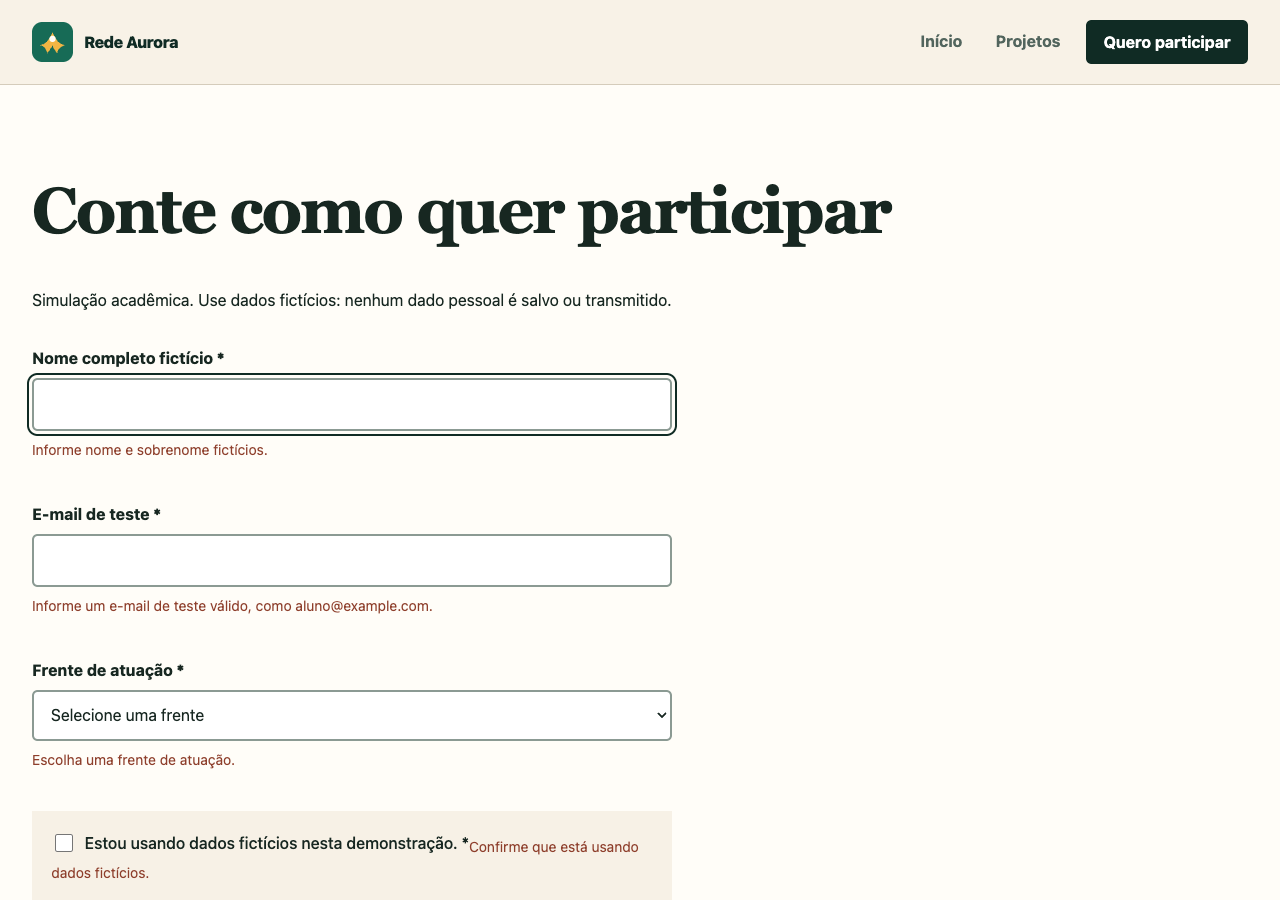
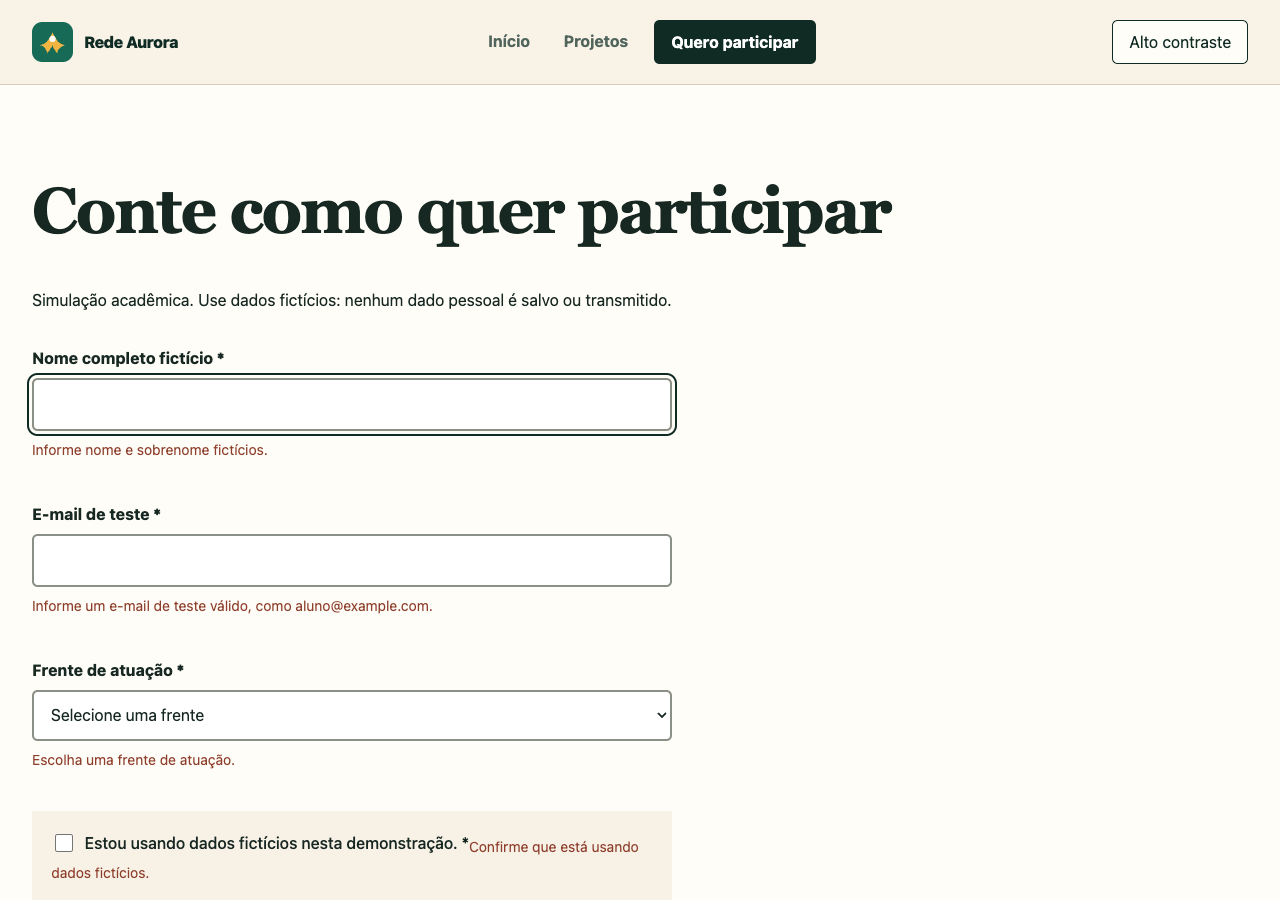
feat: adicionar alto contraste e testes de teclado

diff --git a/css/app.css b/css/app.css
@@ -1,5 +1,21 @@
 [v-cloak] { display: none; }
 .spa-menu { display: none; }
+.header-inner { flex-wrap: wrap; }
+.contrast-toggle { min-height: 44px; padding: var(--space-1) var(--space-2); border: 1px solid var(--forest-950); border-radius: var(--radius-small); color: var(--forest-950); background: var(--paper); cursor: pointer; }
+.high-contrast { color: #fff; background: #000; min-height: 100vh; color-scheme: dark; }
+.high-contrast :is(.site-header, .hero, .site-footer, .project-copy, .consent, .app-status, .badge, .feedback-dialog, input, select) { color: #fff; background: #000; border-color: #fff; }
+#app .high-contrast :is(h1, h2, p, label, strong, figcaption, span, .field-error) { color: #fff; }
+#app .high-contrast :is(a, button, .button, .nav-action) { color: #ffff00; background: #000; border-color: #ffff00; }
+.high-contrast a { text-decoration: underline; }
+.high-contrast .button { transition: none; }
+.high-contrast :is(button, input, select, .button) { border-width: 2px; border-style: solid; }
+.high-contrast :is(input, textarea)::placeholder { color: #fff; }
+.high-contrast :focus-visible { outline: 3px solid #ffff00; outline-offset: 4px; box-shadow: none; }
+.high-contrast .hero::before { display: none; }
+@media (forced-colors: active) {
+  :is(button, .button, input, select) { border: 2px solid ButtonText; }
+  :focus-visible { outline: 3px solid Highlight; box-shadow: none; }
+}
 .section > h1 { max-width: 20ch; font-family: Georgia, serif; font-size: var(--text-display); line-height: 1.05; letter-spacing: -0.03em; overflow-wrap: anywhere; }
 .filters { display: grid; grid-template-columns: 1fr 1fr; gap: var(--space-3); margin-block: var(--space-4); }
 .participation-form { max-width: 40rem; margin-block: var(--space-4); }

diff --git a/html/index.html b/html/index.html
@@ -13,6 +13,7 @@
 <body>
 <noscript>Esta aplicação precisa de JavaScript. Ative-o para navegar no protótipo.</noscript>
 <div id="app" v-cloak>
+<div :class="{'high-contrast': highContrast}">
   <a class="skip-link" href="#conteudo" @click.prevent="$refs.main.focus()">Pular para o conteúdo</a>
   <header class="site-header">
     <div class="shell header-inner">
@@ -25,6 +26,7 @@
           <li><a class="nav-action" href="#/cadastro" :aria-current="route === 'cadastro' ? 'page' : null">Quero participar</a></li>
         </ul>
       </nav>
+      <button class="contrast-toggle" type="button" :aria-pressed="highContrast" @click="highContrast = !highContrast">Alto contraste</button>
     </div>
   </header>
   <main id="conteudo" ref="main" tabindex="-1">
@@ -66,6 +68,7 @@
   <p class="app-status shell" role="status" aria-live="polite">{{ status }}</p>
   <dialog class="feedback-dialog" ref="dialog" aria-labelledby="delete-title"><h2 id="delete-title">Apagar suas preferências?</h2><p>Os favoritos deste navegador serão removidos. O restante dos dados do navegador não será alterado.</p><div class="form-actions"><button class="button button-light" @click="$refs.dialog.close()" autofocus>Cancelar</button><button class="button button-primary" @click="clear">Apagar favoritos</button></div></dialog>
   <footer class="site-footer"><div class="shell"><strong>Rede Aurora</strong><p>Protótipo acadêmico · Sem inscrições, doações ou serviços reais.</p><p>Fotografias ilustrativas do Pexels. Créditos completos no README.</p></div></footer>
+</div>
 </div>
 </body>
 </html>

diff --git a/js/main.js b/js/main.js
@@ -6,7 +6,7 @@ import { currentRoute, routeNames } from './modules/router.js';
 
 const saved = loadPreferences();
 createApp({
-  data: () => ({ route: currentRoute(), projects, favorites: saved.favorites, status: saved.notice, query: '', category: '', menuOpen: false, form: { name: '', email: '', project: '', consent: false }, errors: {} }),
+  data: () => ({ route: currentRoute(), projects, favorites: saved.favorites, status: saved.notice, query: '', category: '', menuOpen: false, highContrast: false, form: { name: '', email: '', project: '', consent: false }, errors: {} }),
   computed: {
     filteredProjects() {
       const query = this.query.trim().toLocaleLowerCase('pt-BR');

diff --git a/README.md b/README.md
@@ -3,6 +3,9 @@
 SPA acadêmica em Vue 3.5.21, com módulos JavaScript nativos. Organização fictícia;
 nenhuma inscrição, doação ou comunicação real é realizada.
 
+[Abrir site](https://renatomarinhofr.github.io/rede-aurora-faculdade/) ·
+[Repositório](https://github.com/renatomarinhofr/rede-aurora-faculdade)
+
 ## Executar
 
 Na pasta do projeto, execute `python3 -m http.server 8000` e acesse
@@ -54,6 +57,9 @@ ausência de e-mail no storage, rota inválida, nove combinações rota/largura
 Na versão IV, a mesma suíte passou também sobre o build minificado. O axe-core
 não encontrou violações automatizadas WCAG 2 A/AA e 2.1 A/AA nas três rotas,
 em 375 e 1280px. Relatório em `evidencias/acessibilidade.json`.
+Na evolução 1.1.0, a auditoria cobre os modos normal e alto contraste
+(12 combinações), e a suíte verifica Enter/Tab/Escape no menu e no modal,
+retorno de foco e alternância visual real do contraste por Espaço.
 Isso não certifica conformidade integral: não houve auditoria completa com
 leitores de tela, outros navegadores, usuários ou backend.
 
@@ -68,6 +74,11 @@ Landmarks, títulos, labels, alt, link de salto, `aria-current`, `aria-expanded`
 Troca de rota foca main; Escape no menu devolve o foco ao botão; o dialog nativo
 contém a interação modal e permite cancelar. Movimento reduzido é respeitado.
 Texto não depende apenas da cor para comunicar seleção ou erro.
+
+O botão Alto contraste ativa fundo preto, texto branco (21:1) e ações amarelas
+(19,56:1), com foco e bordas explícitas. O estado acompanha as rotas da sessão,
+mas não persiste após recarregar. Há suporte CSS a forced-colors. As proporções
+foram calculadas por luminância relativa; as telas foram auditadas com axe.
 
 O build usa esbuild para empacotar/minificar JavaScript e minificar CSS, além de
 html-minifier-terser para HTML. WebP local foi redimensionado para 1200px (hero)
